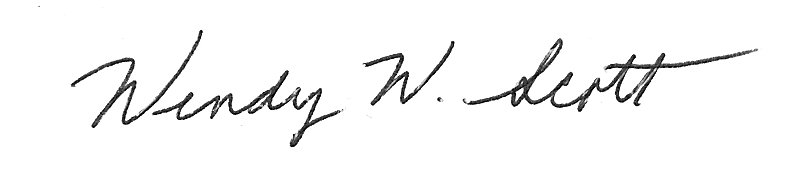
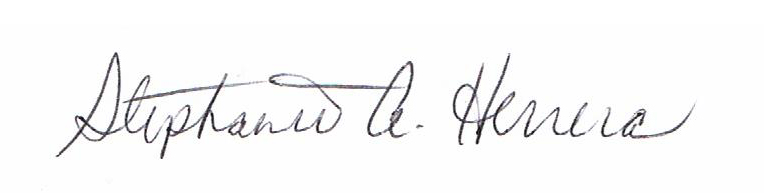
Updated certificate from Wendy to Stephanie; Updated send_certificates script for this year;

diff --git a/stars/templates/institutions/pdf/certificate.html b/stars/templates/institutions/pdf/certificate.html
@@ -63,7 +63,7 @@ h3 {
 				<td>
 					<img src='{{ project_path }}/static/images/pdf/sig.jpg' /><br/>
             		<div class='signatureLine'>
-            			Wendy Scott, Executive Director
+            			Stephanie A. Herrera, Executive Director
             		</div>
             	</td>
 				<td style='text-align: right;vertical-align: top;'>

diff --git a/stars/tests/certificate.py b/stars/tests/certificate.py
@@ -3,7 +3,7 @@
 from stars.apps.institutions.models import *
 from stars.apps.submissions.models import SubmissionSet
 from stars.apps.submissions.tasks import send_certificate_pdf
-from stars.apps.submissions.pdf.export import build_certificate_pdf
+from stars.apps.submissions.export.pdf import build_certificate_pdf
 
 import sys
 
@@ -15,6 +15,7 @@ outfile = "certificate.pdf"
 pdf = build_certificate_pdf(ss)
 f = open(outfile, 'w')
 f.write(pdf.getvalue())
+f.close()
 
 # ss = SubmissionSet.objects.get(pk=60)
 # print >> sys.stdout, "Running cert for %s" % ss

diff --git a/stars/tests/send_certificate_list.py b/stars/tests/send_certificate_list.py
@@ -8,7 +8,7 @@ from django.conf import settings
 from datetime import date
 import sys
 
-ss_list = SubmissionSet.objects.filter(date_submitted__gte=date(year=2013, month=4, day=15), status='r').order_by('date_submitted')
+ss_list = SubmissionSet.objects.filter(date_submitted__gte=date(year=2014, month=1, day=1), status='r').order_by('date_submitted')
 
 settings.EMAIL_BACKEND = 'django.core.mail.backends.smtp.EmailBackend'
 settings.CELERY_ALWAYS_EAGER = True
